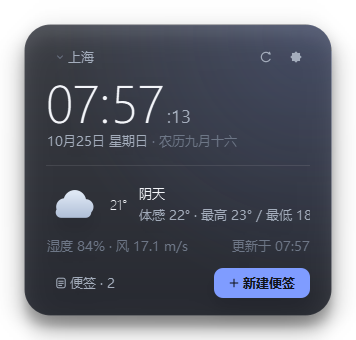
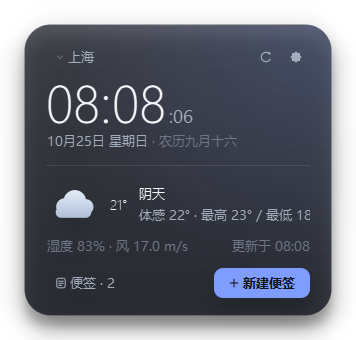
fix: open note category menu from the chip

diff --git a/app/ui/note_window.py b/app/ui/note_window.py
@@ -24,6 +24,7 @@ from PySide6.QtWidgets import (
     QWidget,
 )
 
+from ..dialogs import ConfirmDialog
 from ..notes import KIND_TEXT, KIND_TODO, Note, NoteStore, TodoItem
 from ..theme import Palette, note_color
 from .icons import dot_icon, icon as make_icon
@@ -488,17 +489,42 @@ class NoteWindow(QWidget):
     def set_category(self, category_id: str) -> None:
         if category_id == self.note.category_id:
             return
+        category = self.store.category(category_id)
+        if category is None:
+            return
+        if category.kind != self.note.kind:
+            if not self._confirm_kind_switch(category.kind):
+                return
         self.note.category_id = category_id
+        if category.kind != self.note.kind:
+            self._convert_kind()
         self._apply_category()
         self._mark_dirty()
         self._flush()
 
+    def _confirm_kind_switch(self, target_kind: str) -> bool:
+        if target_kind == KIND_TODO:
+            has_content = bool(self.note.body.strip())
+            detail = "正文会按非空行拆成待办项，原来的段落格式不会保留。"
+        else:
+            has_content = any(item.text.strip() for item in self.note.todos)
+            detail = "待办项会按行合并为正文，勾选状态不会保留。"
+        if not has_content:
+            return True
+        return ConfirmDialog.ask(
+            self,
+            self.palette,
+            "切换便签类型？",
+            detail,
+            "切换",
+        )
+
     def _show_category_menu(self) -> None:
         menu = QMenu(self)
-        for category in self.store.categories():
-            action = menu.addAction(dot_icon(category.color, 10), category.name)
-            action.setCheckable(True)
-            action.setChecked(category.id == self.note.category_id)
+        for category in self.store.categories:
+            selected = category.id == self.note.category_id
+            text = f"{category.name}  ✓" if selected else category.name
+            action = menu.addAction(dot_icon(category.color, 10), text)
             action.triggered.connect(
                 lambda checked=False, cid=category.id: self.set_category(cid)
             )

diff --git a/app/paths.py b/app/paths.py
@@ -8,7 +8,7 @@ from pathlib import Path
 APP_NAME = "LuminaDesk"
 APP_DISPLAY_NAME = "Lumina Desk"
 APP_NAME_ZH = "暮光桌面"
-VERSION = "1.1.0"
+VERSION = "1.1.1"
 REPO_URL = "https://github.com/LilSeven/LuminaDesk"
 
 

diff --git a/docs/release-notes-1.1.1.md b/docs/release-notes-1.1.1.md
@@ -1,0 +1,19 @@
+# Lumina Desk 1.1.1
+
+## 修复
+
+- **点击便签左上角的类别标签没有反应**：现在会正常弹出下拉框，可在“备忘录 / 待办列表 / 灵感 / 收集箱”等类别间直接切换。
+- 下拉框中会标出当前类别，选中后立即生效并保存。
+
+## 改进
+
+- 切换到默认内容类型不同的类别时（例如从“备忘录”切到“待办列表”），会先确认再转换：
+  - 文本 → 待办：按非空行拆分，段落格式不保留；
+  - 待办 → 文本：按行合并，勾选状态不保留。
+- 取消确认时，类别和内容都保持原样。
+
+## 升级
+
+直接下载并替换旧的 `LuminaDesk.exe` 即可，配置、便签和自定义背景都会保留。
+
+下载：[LuminaDesk.exe](https://github.com/LilSeven/LuminaDesk/releases/download/v1.1.1/LuminaDesk.exe)

diff --git a/README.md b/README.md
@@ -33,6 +33,7 @@
 
 - 自由拖动、缩放，位置和大小会被记住
 - 类别由用户维护：名称、颜色、默认类型都可以改，默认提供「备忘录 / 待办列表 / 灵感 / 收集箱」
+- 点击便签左上角的类别标签可直接切换类别；切换到不同默认类型的类别时，会先确认再转换内容
 - 两种内容形态：普通文本，或带勾选、进度统计的待办清单；可在「更多」菜单里互相转换
 - 置顶、自动保存（约 0.5 秒防抖）、重启后恢复打开的便签
 - 便签中心：搜索标题 / 正文 / 待办项，按类别筛选
